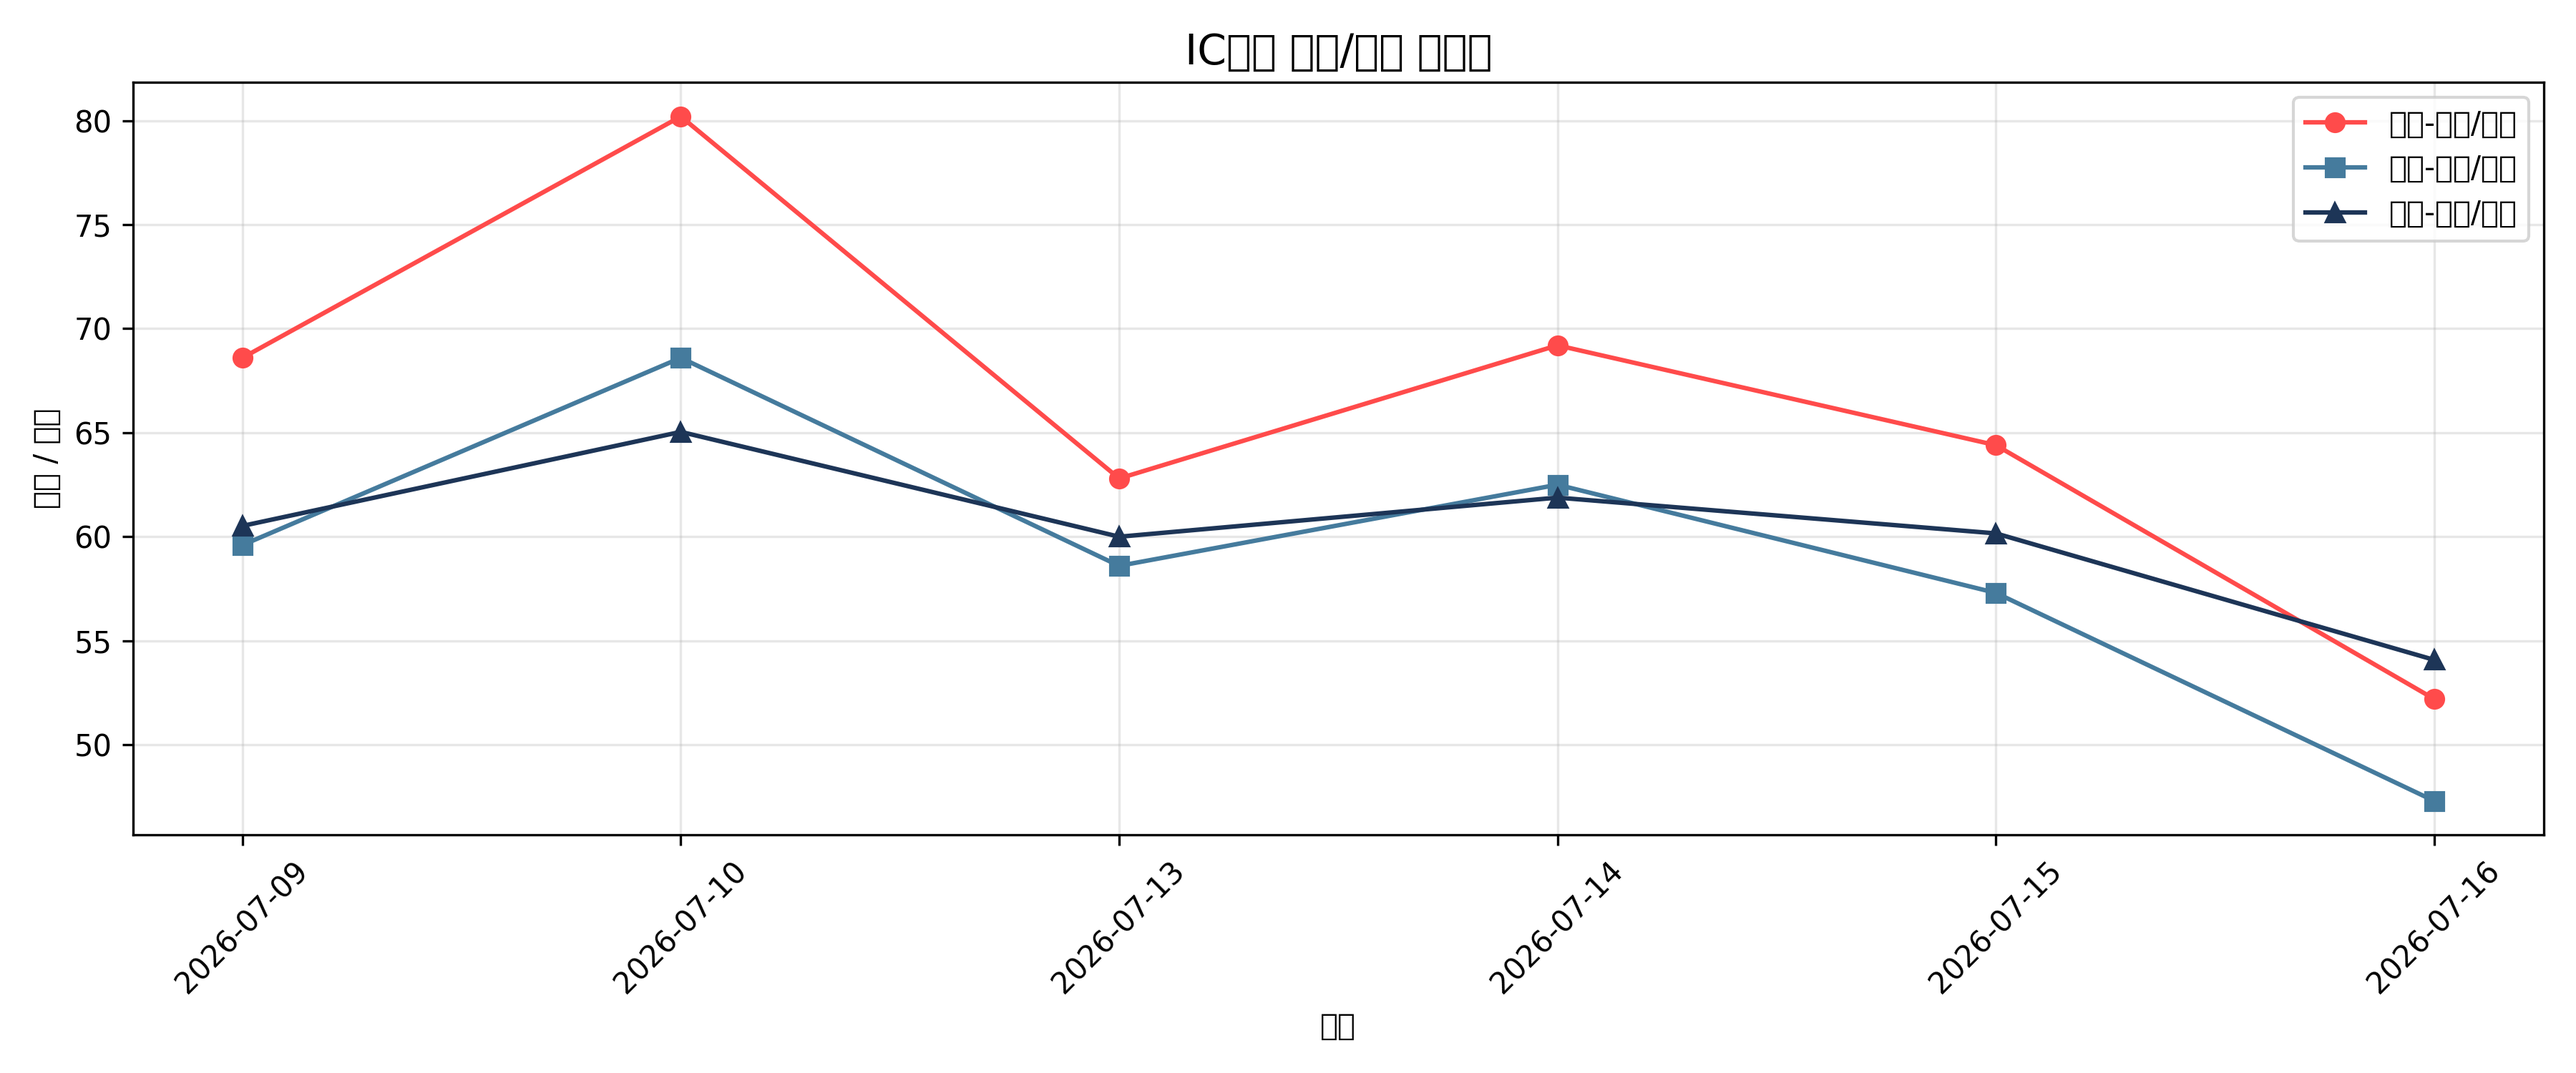
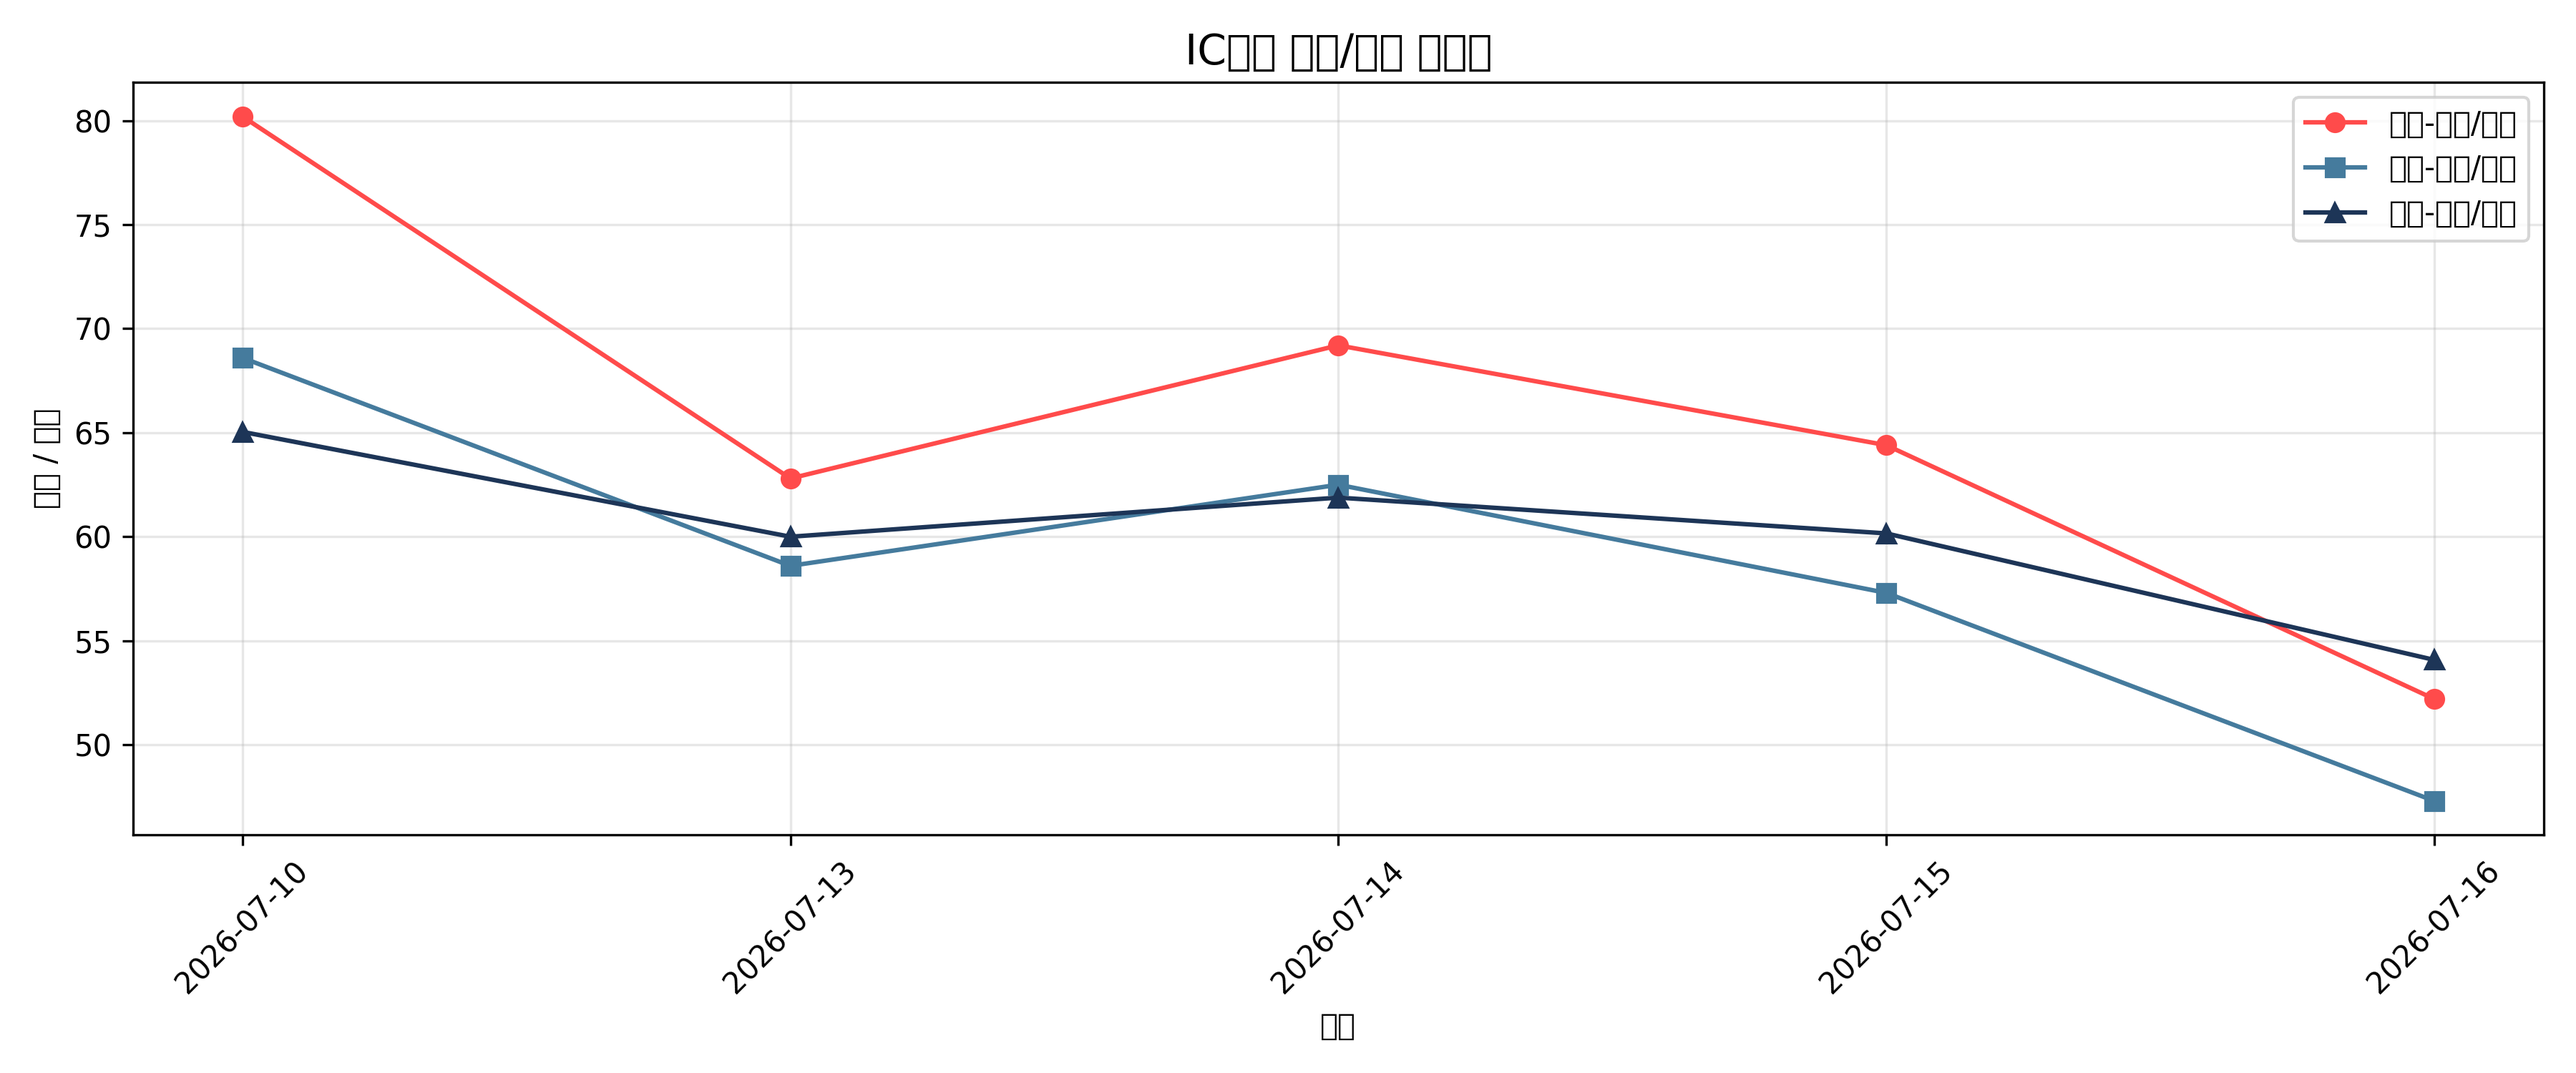
deploy: 4d1bb30b7b0bf8623cc214497fc979b4192c654b

diff --git a/index.html b/index.html
@@ -84,7 +84,7 @@
 <body>
     <div class="container">
         <h1>IC期货基差监控</h1>
-        <div class="last-updated">最后更新：2026-10-06 23:33:00</div>
+        <div class="last-updated">最后更新：2026-10-07 23:50:15</div>
         
         <div class="stats">
             <div class="stat-card">
@@ -114,14 +114,6 @@
                 <th>当月-下月/月差</th>
                 <th>当月-当季/月差</th>
                 <th>当月-下季/月差</th>
-            </tr>
-
-            <tr>
-                <td>2026-07-09</td>
-                <td>IC2607</td>
-                <td>68.6</td>
-                <td>59.6</td>
-                <td>60.52</td>
             </tr>
 
             <tr>
